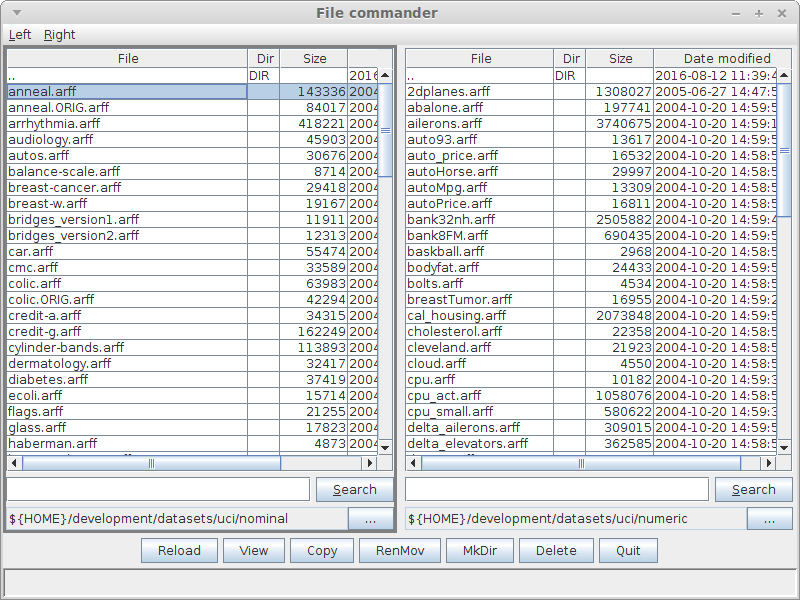
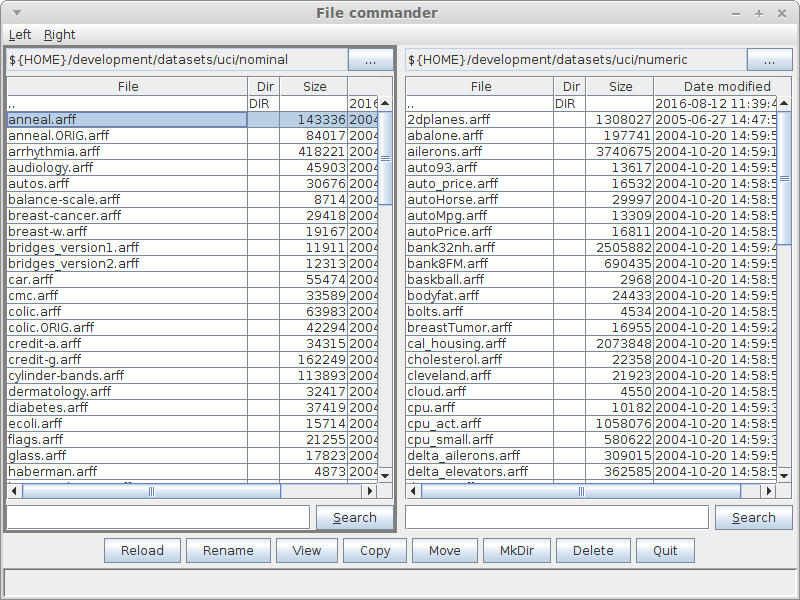
moved directories in filecommander to the top, to better distinguish them from the search box

diff --git a/adams-core/src/main/java/adams/gui/tools/FileCommanderPanel.java b/adams-core/src/main/java/adams/gui/tools/FileCommanderPanel.java
@@ -184,7 +184,7 @@ public class FileCommanderPanel
     });
     m_PanelLeft = new JPanel(new BorderLayout(5, 5));
     m_PanelLeft.add(m_FilesLeft, BorderLayout.CENTER);
-    m_PanelLeft.add(m_DirLeft, BorderLayout.SOUTH);
+    m_PanelLeft.add(m_DirLeft, BorderLayout.NORTH);
     panel.add(m_PanelLeft);
 
     m_FilesRight = new FilePanel(true);
@@ -208,7 +208,7 @@ public class FileCommanderPanel
     });
     m_PanelRight = new JPanel(new BorderLayout(5, 5));
     m_PanelRight.add(m_FilesRight, BorderLayout.CENTER);
-    m_PanelRight.add(m_DirRight, BorderLayout.SOUTH);
+    m_PanelRight.add(m_DirRight, BorderLayout.NORTH);
     panel.add(m_PanelRight);
 
     m_PanelButtons = new JPanel(new FlowLayout());
